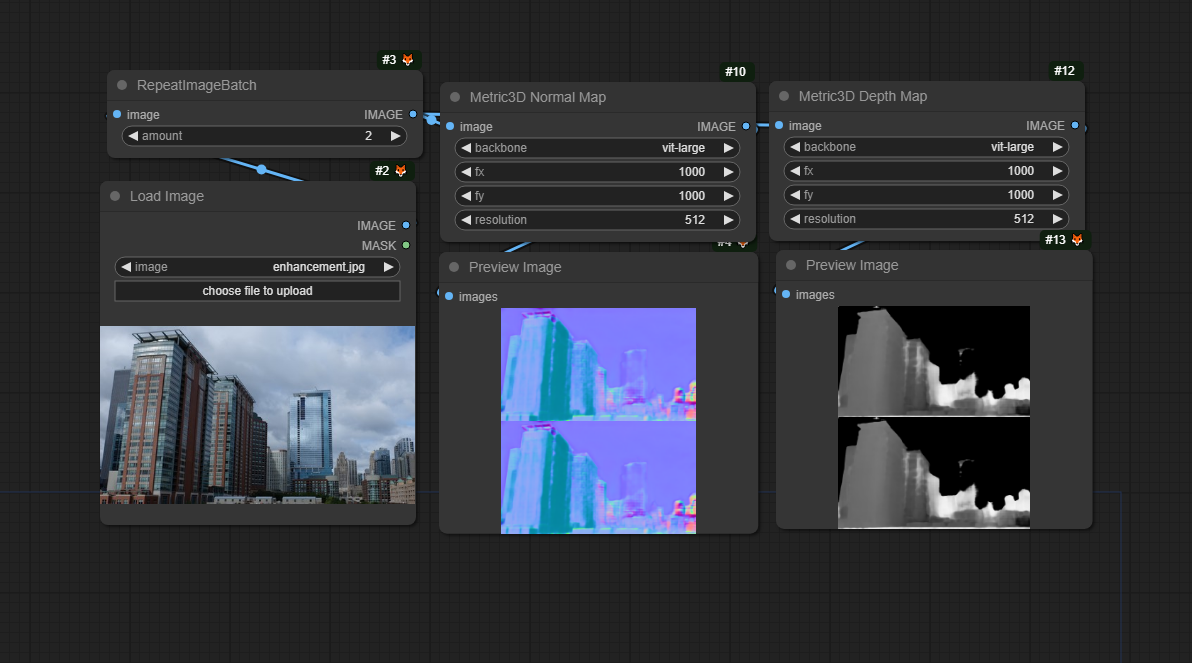
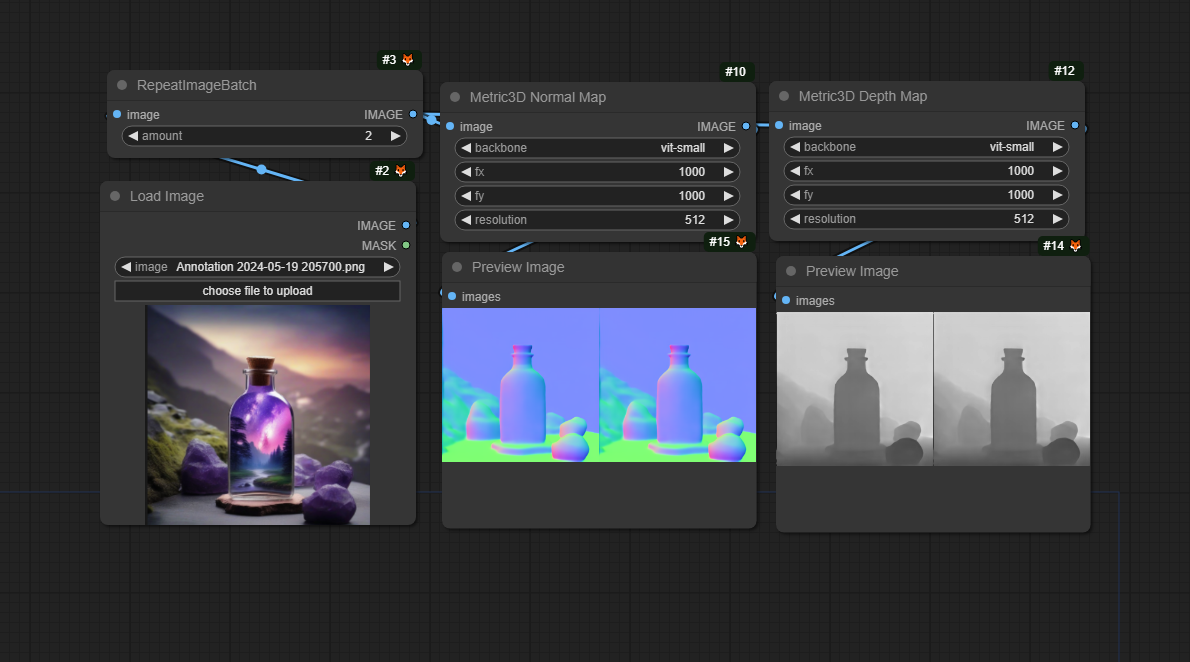
Fix depth of Metric3D having padding and entirely white or black

diff --git a/src/controlnet_aux/metric3d/__init__.py b/src/controlnet_aux/metric3d/__init__.py
@@ -15,6 +15,7 @@ from einops import repeat
 from PIL import Image
 from controlnet_aux.util import HWC3, common_input_validate, resize_image_with_pad, custom_hf_download, METRIC3D_MODEL_NAME
 import re
+import matplotlib
 
 def load_model(model_selection, model_path):
     if model_selection == "vit-small":
@@ -31,12 +32,21 @@ def load_model(model_selection, model_path):
     model = model
     return model, cfg
 
-def vis_depth(img):
+def gray_to_colormap(img, cmap='rainbow'):
+    """
+    Transfer gray map to matplotlib colormap
+    """
     assert img.ndim == 2
 
-    img = repeat(img, 'h w -> h w 3')
-    grayscale = (img[:, :, :3] * 255).astype(np.uint8)
-    return grayscale
+    img[img<0] = 0
+    mask_invalid = img < 1e-10
+    img = img / (img.max() + 1e-8)
+    norm = matplotlib.colors.Normalize(vmin=0, vmax=1.1)
+    cmap_m = matplotlib.cm.get_cmap(cmap)
+    map = matplotlib.cm.ScalarMappable(norm=norm, cmap=cmap_m)
+    colormap = (map.to_rgba(img)[:, :, :3] * 255).astype(np.uint8)
+    colormap[mask_invalid] = 0
+    return colormap
 
 def predict_depth_normal(model, cfg, np_img, fx=1000.0, fy=1000.0, state_cache={}):
     intrinsic = [fx, fy, np_img.shape[1]/2, np_img.shape[0]/2]
@@ -60,7 +70,7 @@ def predict_depth_normal(model, cfg, np_img, fx=1000.0, fy=1000.0, state_cache={
         pred_depth = pred_depth[:, :, pad[0]:H-pad[1], pad[2]:W-pad[3] ]
 
     pred_depth = pred_depth.squeeze().cpu().numpy()
-    pred_color = vis_depth(pred_depth)
+    pred_color = gray_to_colormap(pred_depth, 'Greys')
 
     pred_normal = torch.nn.functional.interpolate(pred_normal, [np_img.shape[0], np_img.shape[1]], mode='bilinear').squeeze()
     pred_normal = pred_normal.permute(1,2,0)
